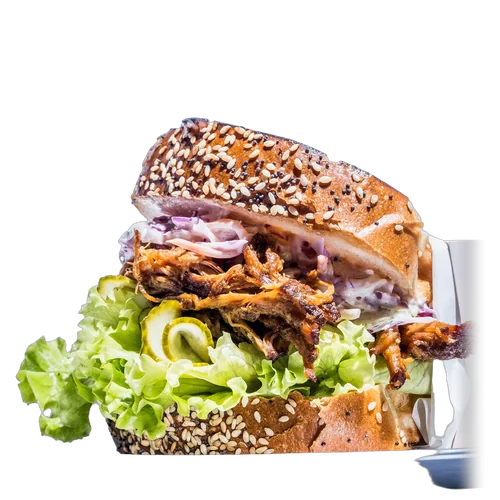
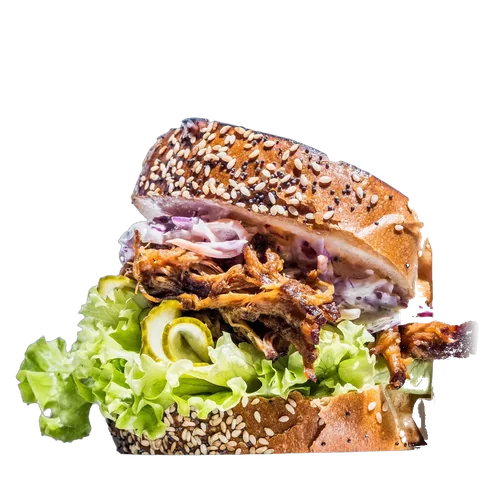
Mobile hero, gallery captions, About copy, article photos, image cache-busting
- Phone hero: bigger title and buttons, block sits higher on tall phones
- Gallery: captions removed
- About: plain factual copy, opening hours instead of the dish count
- Articles: free thematic photos from Wikimedia Commons (CC0 / public domain, credits in README)
- Pork brioche: card and plate edge removed; salmon salad: cropped bowl edge softened
- Build adds ?v=<content hash> to every image URL, so changed photos are not served from cache

Changed region(s): [[0.81, 0.69, 0.96, 0.99], [0.78, 0.45, 0.96, 0.66], [0.81, 0.39, 0.84, 0.45]]

diff --git a/index.html b/index.html
@@ -282,12 +282,12 @@
       <div class="about-text" data-reveal="left">
         <span class="kicker" data-en="About Kiwi's">За Kiwi's</span>
         <h2 data-en="Food that<br><em>fuels you.</em>">Храна, която те<br><em>зарежда.</em></h2>
-        <p data-en="We bake protein brioche, cook bowls with basmati rice and make our desserts in-house — fresh, every day, at 14 Nikola Karev St. in Plovdiv.">Печем протеинов бриош, готвим порции с басмати ориз и правим десертите си на място — прясно, всеки ден, на ул. „Никола Карев“ 14 в Пловдив.</p>
-        <p data-en="Every dish on the menu shows its calories, protein, carbs and fat. No guessing.">До всяко ястие в менюто пише колко калории, протеин, въглехидрати и мазнини има. Без догадки.</p>
+        <p data-en="Kiwi's is a café for healthy food at 14 Nikola Karev St. in Plovdiv: brioche sandwiches, bowls with basmati rice, salads, protein desserts, Cloud Foam drinks and coffee.">Kiwi's е място за здравословна храна и кафе на ул. „Никола Карев“ 14 в Пловдив: сандвичи в протеинов бриош, порции с басмати ориз, салати, протеинови десерти, Cloud Foam напитки и кафе.</p>
+        <p data-en="The menu lists calories, protein, carbs and fat for every dish. You can eat in the room or in the garden, take it with you, or order on Glovo.">В менюто до всяко ястие са дадени калории, протеин, въглехидрати и мазнини. Можеш да хапнеш в залата или в градината, да вземеш за из път или да поръчаш през Glovo.</p>
         <div class="about-stats">
           <div><b data-count="49">49</b><span data-en="Google reviews">отзива в Google</span></div>
           <div><b>5,0</b><span data-en="average rating">средна оценка</span></div>
-          <div><b data-count="27">27</b><span data-en="dishes with macros">ястия с макроси</span></div>
+          <div><b data-en="Mon–Sat">Пон–Съб</b><span>09:00 – 21:30</span></div>
         </div>
       </div>
       <div class="about-img" data-reveal="right">
@@ -463,7 +463,7 @@
       <div class="label-copy" data-reveal="left">
         <span class="kicker" data-en="Know what you eat">Знаеш какво ядеш</span>
         <h2 data-en="Every dish comes<br>with its numbers.">Всяко ястие идва<br>със своите числа.</h2>
-        <p data-en="Training, counting calories or simply curious — the menu lists approximate calories, protein, carbs and fat for each of our 27 dishes, calculated from our recipes.">Тренираш, броиш калории или просто ти е интересно — в менюто до всяко от 27-те ни ястия има приблизителни калории, протеин, въглехидрати и мазнини, изчислени по рецептите ни.</p>
+        <p data-en="The menu lists approximate calories, protein, carbs and fat for every dish, calculated from our recipes.">В менюто до всяко ястие има приблизителни калории, протеин, въглехидрати и мазнини, изчислени по рецептите ни.</p>
         <a href="menu.html" class="btn btn--dark" data-en="Open the menu">Отвори менюто</a>
       </div>
       <div class="nlabel" data-reveal="right" aria-label="Хранителни стойности: Пилешка порция">
@@ -750,15 +750,15 @@
         <div data-reveal="left"><span class="kicker" data-en="Our nest">Нашето гнездо</span><h2 data-en="Stay for a coffee.<br>Or lunch in the garden.">Остани за кафе.<br>Или за обяд в градината.</h2></div>
       </div>
       <div class="gallery" id="gallery">
-          <button class="g g-a" data-reveal="up" data-full="images/nest-terrace-1600.webp" aria-label="Терасата в градината"><picture><source type="image/webp" srcset="images/nest-terrace-600.webp 600w, images/nest-terrace-1000.webp 1000w, images/nest-terrace-1600.webp 1600w" sizes="(min-width: 960px) 420px, 50vw"><img src="images/nest-terrace.jpg" width="1000" height="750" alt="Терасата в градината" loading="lazy" decoding="async"></picture><span class="g-cap" data-en="The garden terrace">Терасата в градината</span></button>
-          <button class="g g-b" data-reveal="up" data-full="images/hero-2000.webp" aria-label="Барът"><picture><source type="image/webp" srcset="images/hero-800.webp 800w, images/hero-1400.webp 1400w, images/hero-2000.webp 2000w" sizes="(min-width: 960px) 420px, 50vw"><img src="images/hero.jpg" width="1600" height="1200" alt="Барът" loading="lazy" decoding="async"></picture><span class="g-cap" data-en="The bar">Барът</span></button>
-          <button class="g g-c" data-reveal="up" data-full="images/nest-interior-1600.webp" aria-label="Залата"><picture><source type="image/webp" srcset="images/nest-interior-600.webp 600w, images/nest-interior-1000.webp 1000w, images/nest-interior-1600.webp 1600w" sizes="(min-width: 960px) 420px, 50vw"><img src="images/nest-interior.jpg" width="1000" height="1333" alt="Залата" loading="lazy" decoding="async"></picture><span class="g-cap" data-en="Inside">Залата</span></button>
-          <button class="g g-d" data-reveal="up" data-full="images/nest-portion-1600.webp" aria-label="Пилешка порция"><picture><source type="image/webp" srcset="images/nest-portion-600.webp 600w, images/nest-portion-1000.webp 1000w, images/nest-portion-1600.webp 1600w" sizes="(min-width: 960px) 420px, 50vw"><img src="images/nest-portion.jpg" width="1000" height="1333" alt="Пилешка порция" loading="lazy" decoding="async"></picture><span class="g-cap" data-en="Chicken bowl">Пилешка порция</span></button>
-          <button class="g g-e" data-reveal="up" data-full="images/nest-exterior-1600.webp" aria-label="Входът"><picture><source type="image/webp" srcset="images/nest-exterior-600.webp 600w, images/nest-exterior-1000.webp 1000w, images/nest-exterior-1600.webp 1600w" sizes="(min-width: 960px) 420px, 50vw"><img src="images/nest-exterior.jpg" width="1000" height="750" alt="Входът" loading="lazy" decoding="async"></picture><span class="g-cap" data-en="The entrance">Входът</span></button>
-          <button class="g g-f" data-reveal="up" data-full="images/nest-frappe-1600.webp" aria-label="Кафе на терасата"><picture><source type="image/webp" srcset="images/nest-frappe-600.webp 600w, images/nest-frappe-1000.webp 1000w, images/nest-frappe-1600.webp 1600w" sizes="(min-width: 960px) 420px, 50vw"><img src="images/nest-frappe.jpg" width="1000" height="1333" alt="Кафе на терасата" loading="lazy" decoding="async"></picture><span class="g-cap" data-en="Coffee on the terrace">Кафе на терасата</span></button>
-          <button class="g g-g" data-reveal="up" data-full="images/nest-door-1600.webp" aria-label="Порция за из път"><picture><source type="image/webp" srcset="images/nest-door-600.webp 600w, images/nest-door-1000.webp 1000w, images/nest-door-1600.webp 1600w" sizes="(min-width: 960px) 420px, 50vw"><img src="images/nest-door.jpg" width="1000" height="1333" alt="Порция за из път" loading="lazy" decoding="async"></picture><span class="g-cap" data-en="A bowl to go">Порция за из път</span></button>
-          <button class="g g-h" data-reveal="up" data-full="images/nest-dessert-1600.webp" aria-label="Протеинов десерт"><picture><source type="image/webp" srcset="images/nest-dessert-600.webp 600w, images/nest-dessert-1000.webp 1000w, images/nest-dessert-1600.webp 1600w" sizes="(min-width: 960px) 420px, 50vw"><img src="images/nest-dessert.jpg" width="1000" height="1333" alt="Протеинов десерт" loading="lazy" decoding="async"></picture><span class="g-cap" data-en="Protein dessert">Протеинов десерт</span></button>
-          <button class="g g-i" data-reveal="up" data-full="images/nest-sandwich-1600.webp" aria-label="Бриош сандвич"><picture><source type="image/webp" srcset="images/nest-sandwich-600.webp 600w, images/nest-sandwich-1000.webp 1000w, images/nest-sandwich-1600.webp 1600w" sizes="(min-width: 960px) 420px, 50vw"><img src="images/nest-sandwich.jpg" width="1000" height="1333" alt="Бриош сандвич" loading="lazy" decoding="async"></picture><span class="g-cap" data-en="Brioche sandwich">Бриош сандвич</span></button>
+          <button class="g g-a" data-reveal="up" data-full="images/nest-terrace-1600.webp" aria-label="Терасата в градината"><picture><source type="image/webp" srcset="images/nest-terrace-600.webp 600w, images/nest-terrace-1000.webp 1000w, images/nest-terrace-1600.webp 1600w" sizes="(min-width: 960px) 420px, 50vw"><img src="images/nest-terrace.jpg" width="1000" height="750" alt="Терасата в градината" loading="lazy" decoding="async"></picture></button>
+          <button class="g g-b" data-reveal="up" data-full="images/hero-2000.webp" aria-label="Барът"><picture><source type="image/webp" srcset="images/hero-800.webp 800w, images/hero-1400.webp 1400w, images/hero-2000.webp 2000w" sizes="(min-width: 960px) 420px, 50vw"><img src="images/hero.jpg" width="1600" height="1200" alt="Барът" loading="lazy" decoding="async"></picture></button>
+          <button class="g g-c" data-reveal="up" data-full="images/nest-interior-1600.webp" aria-label="Залата"><picture><source type="image/webp" srcset="images/nest-interior-600.webp 600w, images/nest-interior-1000.webp 1000w, images/nest-interior-1600.webp 1600w" sizes="(min-width: 960px) 420px, 50vw"><img src="images/nest-interior.jpg" width="1000" height="1333" alt="Залата" loading="lazy" decoding="async"></picture></button>
+          <button class="g g-d" data-reveal="up" data-full="images/nest-portion-1600.webp" aria-label="Пилешка порция"><picture><source type="image/webp" srcset="images/nest-portion-600.webp 600w, images/nest-portion-1000.webp 1000w, images/nest-portion-1600.webp 1600w" sizes="(min-width: 960px) 420px, 50vw"><img src="images/nest-portion.jpg" width="1000" height="1333" alt="Пилешка порция" loading="lazy" decoding="async"></picture></button>
+          <button class="g g-e" data-reveal="up" data-full="images/nest-exterior-1600.webp" aria-label="Входът"><picture><source type="image/webp" srcset="images/nest-exterior-600.webp 600w, images/nest-exterior-1000.webp 1000w, images/nest-exterior-1600.webp 1600w" sizes="(min-width: 960px) 420px, 50vw"><img src="images/nest-exterior.jpg" width="1000" height="750" alt="Входът" loading="lazy" decoding="async"></picture></button>
+          <button class="g g-f" data-reveal="up" data-full="images/nest-frappe-1600.webp" aria-label="Кафе на терасата"><picture><source type="image/webp" srcset="images/nest-frappe-600.webp 600w, images/nest-frappe-1000.webp 1000w, images/nest-frappe-1600.webp 1600w" sizes="(min-width: 960px) 420px, 50vw"><img src="images/nest-frappe.jpg" width="1000" height="1333" alt="Кафе на терасата" loading="lazy" decoding="async"></picture></button>
+          <button class="g g-g" data-reveal="up" data-full="images/nest-door-1600.webp" aria-label="Порция за из път"><picture><source type="image/webp" srcset="images/nest-door-600.webp 600w, images/nest-door-1000.webp 1000w, images/nest-door-1600.webp 1600w" sizes="(min-width: 960px) 420px, 50vw"><img src="images/nest-door.jpg" width="1000" height="1333" alt="Порция за из път" loading="lazy" decoding="async"></picture></button>
+          <button class="g g-h" data-reveal="up" data-full="images/nest-dessert-1600.webp" aria-label="Протеинов десерт"><picture><source type="image/webp" srcset="images/nest-dessert-600.webp 600w, images/nest-dessert-1000.webp 1000w, images/nest-dessert-1600.webp 1600w" sizes="(min-width: 960px) 420px, 50vw"><img src="images/nest-dessert.jpg" width="1000" height="1333" alt="Протеинов десерт" loading="lazy" decoding="async"></picture></button>
+          <button class="g g-i" data-reveal="up" data-full="images/nest-sandwich-1600.webp" aria-label="Бриош сандвич"><picture><source type="image/webp" srcset="images/nest-sandwich-600.webp 600w, images/nest-sandwich-1000.webp 1000w, images/nest-sandwich-1600.webp 1600w" sizes="(min-width: 960px) 420px, 50vw"><img src="images/nest-sandwich.jpg" width="1000" height="1333" alt="Бриош сандвич" loading="lazy" decoding="async"></picture></button>
       </div>
     </div>
   </section>
@@ -796,9 +796,9 @@
         <a href="blog/" class="sec-link" data-reveal="right" data-en="All articles &rarr;">Всички статии &rarr;</a>
       </div>
       <div class="art-grid">
-        <a class="art-card" href="blog/kolko-protein-na-den.html" data-reveal="up"><div class="art-img"><picture><source type="image/webp" srcset="images/nest-portion-600.webp 600w, images/nest-portion-1000.webp 1000w, images/nest-portion-1600.webp 1600w" sizes="(min-width: 960px) 360px, 90vw"><img src="images/nest-portion.jpg" width="1000" height="1333" alt="" loading="lazy" decoding="async"></picture></div><span class="art-meta">6 <span data-en="min read">мин четене</span></span><h3 data-en="How much protein do you need a day?">Колко протеин ти трябва на ден?</h3></a>
-        <a class="art-card" href="blog/makrosi-za-nachinaeshti.html" data-reveal="up"><div class="art-img"><picture><source type="image/webp" srcset="images/nest-dessert-600.webp 600w, images/nest-dessert-1000.webp 1000w, images/nest-dessert-1600.webp 1600w" sizes="(min-width: 960px) 360px, 90vw"><img src="images/nest-dessert.jpg" width="1000" height="1333" alt="" loading="lazy" decoding="async"></picture></div><span class="art-meta">5 <span data-en="min read">мин четене</span></span><h3 data-en="Macros for beginners">Макроси за начинаещи</h3></a>
-        <a class="art-card" href="blog/zdravoslovno-hranene-navan.html" data-reveal="up"><div class="art-img"><picture><source type="image/webp" srcset="images/nest-terrace-600.webp 600w, images/nest-terrace-1000.webp 1000w, images/nest-terrace-1600.webp 1600w" sizes="(min-width: 960px) 360px, 90vw"><img src="images/nest-terrace.jpg" width="1000" height="750" alt="" loading="lazy" decoding="async"></picture></div><span class="art-meta">5 <span data-en="min read">мин четене</span></span><h3 data-en="Eating well when you eat out">Как да се храниш здравословно, когато ядеш навън</h3></a>
+        <a class="art-card" href="blog/kolko-protein-na-den.html" data-reveal="up"><div class="art-img"><picture><source type="image/webp" srcset="images/article-protein-600.webp 600w, images/article-protein-1000.webp 1000w, images/article-protein-1600.webp 1600w" sizes="(min-width: 960px) 360px, 90vw"><img src="images/article-protein.jpg" width="1600" height="1200" alt="" loading="lazy" decoding="async"></picture></div><span class="art-meta">6 <span data-en="min read">мин четене</span></span><h3 data-en="How much protein do you need a day?">Колко протеин ти трябва на ден?</h3></a>
+        <a class="art-card" href="blog/makrosi-za-nachinaeshti.html" data-reveal="up"><div class="art-img"><picture><source type="image/webp" srcset="images/article-macros-600.webp 600w, images/article-macros-1000.webp 1000w, images/article-macros-1600.webp 1600w" sizes="(min-width: 960px) 360px, 90vw"><img src="images/article-macros.jpg" width="1600" height="1200" alt="" loading="lazy" decoding="async"></picture></div><span class="art-meta">5 <span data-en="min read">мин четене</span></span><h3 data-en="Macros for beginners">Макроси за начинаещи</h3></a>
+        <a class="art-card" href="blog/zdravoslovno-hranene-navan.html" data-reveal="up"><div class="art-img"><picture><source type="image/webp" srcset="images/article-eatout-600.webp 600w, images/article-eatout-1000.webp 1000w, images/article-eatout-1600.webp 1600w" sizes="(min-width: 960px) 360px, 90vw"><img src="images/article-eatout.jpg" width="1600" height="1200" alt="" loading="lazy" decoding="async"></picture></div><span class="art-meta">5 <span data-en="min read">мин четене</span></span><h3 data-en="Eating well when you eat out">Как да се храниш здравословно, когато ядеш навън</h3></a>
       </div>
     </div>
   </section>

diff --git a/blog/index.html b/blog/index.html
@@ -95,19 +95,19 @@
       </div>
       <div class="container art-grid blog-list">
         <a class="art-card" href="/blog/kolko-protein-na-den.html">
-          <div class="art-img"><picture><source type="image/webp" srcset="/images/nest-portion-600.webp 600w, /images/nest-portion-1000.webp 1000w, /images/nest-portion-1600.webp 1600w" sizes="(min-width: 900px) 360px, 90vw"><img src="/images/nest-portion.jpg" width="1000" height="1333" alt="" loading="lazy" decoding="async"></picture></div>
+          <div class="art-img"><picture><source type="image/webp" srcset="/images/article-protein-600.webp 600w, /images/article-protein-1000.webp 1000w, /images/article-protein-1600.webp 1600w" sizes="(min-width: 900px) 360px, 90vw"><img src="/images/article-protein.jpg" width="1600" height="1200" alt="" loading="lazy" decoding="async"></picture></div>
           <span class="art-meta">6 мин четене</span>
           <h2>Колко протеин ти трябва на ден?</h2>
           <p>Колко протеин на ден е нужен на възрастен, на човек, който тренира, и след 65 години — с препоръките на EFSA и ISSN и примери с реални ястия.</p>
         </a>
         <a class="art-card" href="/blog/makrosi-za-nachinaeshti.html">
-          <div class="art-img"><picture><source type="image/webp" srcset="/images/nest-dessert-600.webp 600w, /images/nest-dessert-1000.webp 1000w, /images/nest-dessert-1600.webp 1600w" sizes="(min-width: 900px) 360px, 90vw"><img src="/images/nest-dessert.jpg" width="1000" height="1333" alt="" loading="lazy" decoding="async"></picture></div>
+          <div class="art-img"><picture><source type="image/webp" srcset="/images/article-macros-600.webp 600w, /images/article-macros-1000.webp 1000w, /images/article-macros-1600.webp 1600w" sizes="(min-width: 900px) 360px, 90vw"><img src="/images/article-macros.jpg" width="1600" height="1200" alt="" loading="lazy" decoding="async"></picture></div>
           <span class="art-meta">5 мин четене</span>
           <h2>Макроси за начинаещи: калории, протеин, въглехидрати, мазнини</h2>
           <p>Какво са макросите, колко калории има в грам протеин, въглехидрати и мазнини, и как да четеш хранителните стойности в менюто.</p>
         </a>
         <a class="art-card" href="/blog/zdravoslovno-hranene-navan.html">
-          <div class="art-img"><picture><source type="image/webp" srcset="/images/nest-terrace-600.webp 600w, /images/nest-terrace-1000.webp 1000w, /images/nest-terrace-1600.webp 1600w" sizes="(min-width: 900px) 360px, 90vw"><img src="/images/nest-terrace.jpg" width="1000" height="750" alt="" loading="lazy" decoding="async"></picture></div>
+          <div class="art-img"><picture><source type="image/webp" srcset="/images/article-eatout-600.webp 600w, /images/article-eatout-1000.webp 1000w, /images/article-eatout-1600.webp 1600w" sizes="(min-width: 900px) 360px, 90vw"><img src="/images/article-eatout.jpg" width="1600" height="1200" alt="" loading="lazy" decoding="async"></picture></div>
           <span class="art-meta">5 мин четене</span>
           <h2>Как да се храниш здравословно, когато ядеш навън</h2>
           <p>Практични съвети за здравословно хранене в заведение: как да изградиш чинията, какво да внимаваш със сосовете, напитките и солта.</p>

diff --git a/blog/makrosi-za-nachinaeshti.html b/blog/makrosi-za-nachinaeshti.html
@@ -15,7 +15,7 @@
   <meta property="og:url" content="https://kiwis.bg/blog/makrosi-za-nachinaeshti.html">
   <meta property="og:title" content="Макроси за начинаещи: калории, протеин, въглехидрати, мазнини | Kiwi&#x27;s Пловдив">
   <meta property="og:description" content="Какво са макросите, колко калории има в грам протеин, въглехидрати и мазнини, и как да четеш хранителните стойности в менюто.">
-  <meta property="og:image" content="https://kiwis.bg/images/nest-dessert.jpg">
+  <meta property="og:image" content="https://kiwis.bg/images/article-macros.jpg">
   <meta name="twitter:card" content="summary_large_image">
   <link rel="icon" href="/favicon.ico" sizes="48x48">
   <link rel="icon" type="image/png" sizes="32x32" href="/favicon-32.png">
@@ -31,7 +31,7 @@
       "@type": "Article",
       "headline": "Макроси за начинаещи: калории, протеин, въглехидрати, мазнини",
       "description": "Какво са макросите, колко калории има в грам протеин, въглехидрати и мазнини, и как да четеш хранителните стойности в менюто.",
-      "image": "https://kiwis.bg/images/nest-dessert.jpg",
+      "image": "https://kiwis.bg/images/article-macros.jpg",
       "datePublished": "2026-11-11",
       "dateModified": "2026-11-11",
       "inLanguage": "bg",
@@ -119,7 +119,7 @@
         <h1>Макроси за начинаещи: калории, протеин, въглехидрати, мазнини</h1>
         <p class="post-meta">5 мин четене · Kiwi's · 11.11.2026</p>
       </div>
-      <div class="container post-hero"><picture><source type="image/webp" srcset="/images/nest-dessert-600.webp 600w, /images/nest-dessert-1000.webp 1000w, /images/nest-dessert-1600.webp 1600w" sizes="(min-width: 900px) 860px, 100vw"><img src="/images/nest-dessert.jpg" width="1000" height="1333" alt="" decoding="async"></picture></div>
+      <div class="container post-hero"><picture><source type="image/webp" srcset="/images/article-macros-600.webp 600w, /images/article-macros-1000.webp 1000w, /images/article-macros-1600.webp 1600w" sizes="(min-width: 900px) 860px, 100vw"><img src="/images/article-macros.jpg" width="1600" height="1200" alt="" decoding="async"></picture></div>
       <div class="container post-body">
 
 <p class="lead">„Макроси“ са трите големи групи хранителни вещества, от които идва енергията в храната: <strong>протеини, въглехидрати и мазнини</strong>. Ако ги разбираш, разбираш и етикета, и менюто.</p>

diff --git a/blog/zdravoslovno-hranene-navan.html b/blog/zdravoslovno-hranene-navan.html
@@ -15,7 +15,7 @@
   <meta property="og:url" content="https://kiwis.bg/blog/zdravoslovno-hranene-navan.html">
   <meta property="og:title" content="Как да се храниш здравословно, когато ядеш навън | Kiwi&#x27;s Пловдив">
   <meta property="og:description" content="Практични съвети за здравословно хранене в заведение: как да изградиш чинията, какво да внимаваш със сосовете, напитките и солта.">
-  <meta property="og:image" content="https://kiwis.bg/images/nest-terrace.jpg">
+  <meta property="og:image" content="https://kiwis.bg/images/article-eatout.jpg">
   <meta name="twitter:card" content="summary_large_image">
   <link rel="icon" href="/favicon.ico" sizes="48x48">
   <link rel="icon" type="image/png" sizes="32x32" href="/favicon-32.png">
@@ -31,7 +31,7 @@
       "@type": "Article",
       "headline": "Как да се храниш здравословно, когато ядеш навън",
       "description": "Практични съвети за здравословно хранене в заведение: как да изградиш чинията, какво да внимаваш със сосовете, напитките и солта.",
-      "image": "https://kiwis.bg/images/nest-terrace.jpg",
+      "image": "https://kiwis.bg/images/article-eatout.jpg",
       "datePublished": "2026-11-11",
       "dateModified": "2026-11-11",
       "inLanguage": "bg",
@@ -119,7 +119,7 @@
         <h1>Как да се храниш здравословно, когато ядеш навън</h1>
         <p class="post-meta">5 мин четене · Kiwi's · 11.11.2026</p>
       </div>
-      <div class="container post-hero"><picture><source type="image/webp" srcset="/images/nest-terrace-600.webp 600w, /images/nest-terrace-1000.webp 1000w, /images/nest-terrace-1600.webp 1600w" sizes="(min-width: 900px) 860px, 100vw"><img src="/images/nest-terrace.jpg" width="1000" height="750" alt="" decoding="async"></picture></div>
+      <div class="container post-hero"><picture><source type="image/webp" srcset="/images/article-eatout-600.webp 600w, /images/article-eatout-1000.webp 1000w, /images/article-eatout-1600.webp 1600w" sizes="(min-width: 900px) 860px, 100vw"><img src="/images/article-eatout.jpg" width="1600" height="1200" alt="" decoding="async"></picture></div>
       <div class="container post-body">
 
 <p class="lead">Храненето навън не трябва да разваля режима. С няколко прости правила можеш да ядеш вкусно, да се заситиш и пак да си в целите си.</p>

diff --git a/blog/kolko-protein-na-den.html b/blog/kolko-protein-na-den.html
@@ -15,7 +15,7 @@
   <meta property="og:url" content="https://kiwis.bg/blog/kolko-protein-na-den.html">
   <meta property="og:title" content="Колко протеин ти трябва на ден? | Kiwi&#x27;s Пловдив">
   <meta property="og:description" content="Колко протеин на ден е нужен на възрастен, на човек, който тренира, и след 65 години — с препоръките на EFSA и ISSN и примери с реални ястия.">
-  <meta property="og:image" content="https://kiwis.bg/images/nest-portion.jpg">
+  <meta property="og:image" content="https://kiwis.bg/images/article-protein.jpg">
   <meta name="twitter:card" content="summary_large_image">
   <link rel="icon" href="/favicon.ico" sizes="48x48">
   <link rel="icon" type="image/png" sizes="32x32" href="/favicon-32.png">
@@ -31,7 +31,7 @@
       "@type": "Article",
       "headline": "Колко протеин ти трябва на ден?",
       "description": "Колко протеин на ден е нужен на възрастен, на човек, който тренира, и след 65 години — с препоръките на EFSA и ISSN и примери с реални ястия.",
-      "image": "https://kiwis.bg/images/nest-portion.jpg",
+      "image": "https://kiwis.bg/images/article-protein.jpg",
       "datePublished": "2026-11-11",
       "dateModified": "2026-11-11",
       "inLanguage": "bg",
@@ -119,7 +119,7 @@
         <h1>Колко протеин ти трябва на ден?</h1>
         <p class="post-meta">6 мин четене · Kiwi's · 11.11.2026</p>
       </div>
-      <div class="container post-hero"><picture><source type="image/webp" srcset="/images/nest-portion-600.webp 600w, /images/nest-portion-1000.webp 1000w, /images/nest-portion-1600.webp 1600w" sizes="(min-width: 900px) 860px, 100vw"><img src="/images/nest-portion.jpg" width="1000" height="1333" alt="" decoding="async"></picture></div>
+      <div class="container post-hero"><picture><source type="image/webp" srcset="/images/article-protein-600.webp 600w, /images/article-protein-1000.webp 1000w, /images/article-protein-1600.webp 1600w" sizes="(min-width: 900px) 860px, 100vw"><img src="/images/article-protein.jpg" width="1600" height="1200" alt="" decoding="async"></picture></div>
       <div class="container post-body">
 
 <p class="lead">Протеинът е навсякъде — в рекламите, във фитнеса, в менютата. Но колко всъщност ти трябва? Отговорът зависи от теглото ти, от това колко се движиш и от възрастта ти.</p>

diff --git a/css/style.css b/css/style.css
@@ -459,7 +459,7 @@ button { border: 0; background: none; cursor: pointer; font: inherit; color: inh
 .ct img { top: 7%; left: 50%; width: 80%; height: 60%; object-fit: contain; object-position: 50% 100%; transform: translateX(-50%); }
 .ct:hover img { transform: translateX(-50%) translateY(-6px) scale(1.04); }
 @media (max-width: 959px) { .ct { min-height: 15.5rem; } .ct img { top: 6%; height: 50%; width: 84%; } }
-.art-img img { object-position: 50% 68%; }
+.art-img img { object-position: 50% 50%; }
 
 /* ==========================================================
    v3 — PRAISED: one flat yellow (no gradient that shifts while scrolling),
@@ -605,3 +605,18 @@ button { border: 0; background: none; cursor: pointer; font: inherit; color: inh
 @media (max-width: 959px) { .praised .pv-quote { height: 5.2em !important; } }
 /* desktop: price + weight left, the two buttons stay side by side */
 @media (min-width: 960px) { .praised .pv-ctas { flex-wrap: nowrap; } .praised .pv-ctas .btn { padding: 12px 20px; font-size: .92rem; } }
+.about-stats b { white-space: nowrap; font-size: clamp(1.2rem, 5.4vw, 1.8rem); }
+
+/* HERO on phones v2: title and buttons scale with the screen and sit higher on tall phones */
+@media (max-width: 768px) {
+  .hero-content { padding-bottom: clamp(28px, calc(100svh - 640px), 150px); }
+  .hero-content { padding-bottom: max(clamp(28px, 18svh - 90px, 150px), env(safe-area-inset-bottom)); }
+  .hero-h1 { font-size: clamp(2.6rem, min(13.4vw, 7.4svh), 4.4rem); margin-bottom: clamp(14px, 2.4svh, 26px); }
+  .hero-btns { margin-top: clamp(14px, 2.6svh, 28px); gap: clamp(8px, 1.4svh, 14px); }
+  .hero-btns .btn { padding: clamp(13px, 2svh, 18px) 16px; font-size: clamp(.95rem, 4.4vw, 1.1rem); }
+  .hero-rating { font-size: clamp(.85rem, 3.9vw, 1rem); }
+}
+@media (max-width: 768px) {
+  .hero-content { padding-bottom: max(clamp(32px, 30svh - 140px, 170px), env(safe-area-inset-bottom)); }
+  .hero-h1 { font-size: clamp(2.5rem, min(12.2vw, 7svh), 4.2rem); }
+}

diff --git a/css/blog.css b/css/blog.css
@@ -38,11 +38,11 @@
 /* ---- one centred column: heading, photo and text share the same width ---- */
 .post-head, .post-hero, .post-body { max-width: 48.75rem; }
 .post-hero { margin-top: 26px; }
-.post-hero img { width: 100%; height: auto; max-height: none; aspect-ratio: 16 / 10; object-fit: cover; object-position: 50% 62%; border-radius: 22px; box-shadow: 0 30px 60px -36px rgba(26,45,30,.45); }
+.post-hero img { width: 100%; height: auto; max-height: none; aspect-ratio: 16 / 10; object-fit: cover; object-position: 50% 50%; border-radius: 22px; box-shadow: 0 30px 60px -36px rgba(26,45,30,.45); }
 .post-body { margin-top: 32px; }
 .blog-list { max-width: 72.5rem; }
 .blog-list .art-img { aspect-ratio: 4 / 3; }
 .blog-list .art-card { align-content: start; }
 /* list page: heading lines up with the cards */
 .post:has(.blog-list) .post-head { max-width: 72.5rem; }
-.art-img img { object-position: 50% 68%; }
+.art-img img { object-position: 50% 50%; }

diff --git a/js/main.js b/js/main.js
@@ -155,7 +155,8 @@ document.addEventListener('DOMContentLoaded', () => {
     const open = k => {
       n = (k + items.length) % items.length;
       img.src = items[n].dataset.full;
-      img.alt = cap.textContent = items[n].querySelector('.g-cap').textContent;
+      img.alt = items[n].getAttribute('aria-label') || '';
+      cap.textContent = '';
       lb.hidden = false; document.body.style.overflow = 'hidden';
     };
     const close = () => { lb.hidden = true; document.body.style.overflow = ''; if (last) last.focus(); };

diff --git a/menu.html b/menu.html
@@ -31,7 +31,7 @@
   <link rel="stylesheet" href="css/style.css">
   <link rel="stylesheet" href="css/pv.css">
   <link rel="stylesheet" href="css/menu.css">
-                                  <script type="application/ld+json">
+                                      <script type="application/ld+json">
 {
   "@context": "https://schema.org",
   "@type": "Menu",

diff --git a/scripts/gen/build_index.py b/scripts/gen/build_index.py
@@ -98,7 +98,7 @@ NEST = [
 gal = ""
 for i, (img, cap, cen, cls, w, h) in enumerate(NEST):
     full = "images/hero-2000.webp" if img == "hero" else f"images/{img}-1600.webp"
-    gal += f'          <button class="g {cls}" data-reveal="up" data-full="{full}" aria-label="{cap}">{photo(img, "(min-width: 960px) 420px, 50vw", cap, w, h)}<span class="g-cap" data-en="{cen}">{cap}</span></button>\n'
+    gal += f'          <button class="g {cls}" data-reveal="up" data-full="{full}" aria-label="{cap}">{photo(img, "(min-width: 960px) 420px, 50vw", cap, w, h)}</button>\n'
 
 FAQ = [
     ("Къде се намира Kiwi's?", "Where is Kiwi's?", "На ул. „Никола Карев“ 14 в Пловдив. Имаме зала и тераса в градината.", "At 14 Nikola Karev St., Plovdiv, with an indoor room and a garden terrace."),
@@ -114,11 +114,11 @@ faq_ld = json.dumps({"@context": "https://schema.org", "@type": "FAQPage", "main
     {"@type": "Question", "name": q, "acceptedAnswer": {"@type": "Answer", "text": a}} for q, _, a, _ in FAQ]}, ensure_ascii=False, indent=2)
 
 ARTS = [
-    ("blog/kolko-protein-na-den.html", "Колко протеин ти трябва на ден?", "How much protein do you need a day?", "nest-portion", 1333, "6"),
-    ("blog/makrosi-za-nachinaeshti.html", "Макроси за начинаещи", "Macros for beginners", "nest-dessert", 1333, "5"),
-    ("blog/zdravoslovno-hranene-navan.html", "Как да се храниш здравословно, когато ядеш навън", "Eating well when you eat out", "nest-terrace", 750, "5"),
+    ("blog/kolko-protein-na-den.html", "Колко протеин ти трябва на ден?", "How much protein do you need a day?", "article-protein", 1200, "6"),
+    ("blog/makrosi-za-nachinaeshti.html", "Макроси за начинаещи", "Macros for beginners", "article-macros", 1200, "5"),
+    ("blog/zdravoslovno-hranene-navan.html", "Как да се храниш здравословно, когато ядеш навън", "Eating well when you eat out", "article-eatout", 1200, "5"),
 ]
-arts = "".join(f'''        <a class="art-card" href="{h}" data-reveal="up"><div class="art-img">{photo(img, "(min-width: 960px) 360px, 90vw", "", 1000, ih)}</div><span class="art-meta">{m} <span data-en="min read">мин четене</span></span><h3 data-en="{te}">{t}</h3></a>
+arts = "".join(f'''        <a class="art-card" href="{h}" data-reveal="up"><div class="art-img">{photo(img, "(min-width: 960px) 360px, 90vw", "", 1600, ih)}</div><span class="art-meta">{m} <span data-en="min read">мин четене</span></span><h3 data-en="{te}">{t}</h3></a>
 ''' for h, t, te, img, ih, m in ARTS)
 
 chicken = ITEMS["Пилешка порция"]
@@ -166,12 +166,12 @@ body = f'''<body>
       <div class="about-text" data-reveal="left">
         <span class="kicker" data-en="About Kiwi's">За Kiwi's</span>
         <h2 data-en="Food that<br><em>fuels you.</em>">Храна, която те<br><em>зарежда.</em></h2>
-        <p data-en="We bake protein brioche, cook bowls with basmati rice and make our desserts in-house — fresh, every day, at 14 Nikola Karev St. in Plovdiv.">Печем протеинов бриош, готвим порции с басмати ориз и правим десертите си на място — прясно, всеки ден, на ул. „Никола Карев“ 14 в Пловдив.</p>
-        <p data-en="Every dish on the menu shows its calories, protein, carbs and fat. No guessing.">До всяко ястие в менюто пише колко калории, протеин, въглехидрати и мазнини има. Без догадки.</p>
+        <p data-en="Kiwi's is a café for healthy food at 14 Nikola Karev St. in Plovdiv: brioche sandwiches, bowls with basmati rice, salads, protein desserts, Cloud Foam drinks and coffee.">Kiwi's е място за здравословна храна и кафе на ул. „Никола Карев“ 14 в Пловдив: сандвичи в протеинов бриош, порции с басмати ориз, салати, протеинови десерти, Cloud Foam напитки и кафе.</p>
+        <p data-en="The menu lists calories, protein, carbs and fat for every dish. You can eat in the room or in the garden, take it with you, or order on Glovo.">В менюто до всяко ястие са дадени калории, протеин, въглехидрати и мазнини. Можеш да хапнеш в залата или в градината, да вземеш за из път или да поръчаш през Glovo.</p>
         <div class="about-stats">
           <div><b data-count="49">49</b><span data-en="Google reviews">отзива в Google</span></div>
           <div><b>5,0</b><span data-en="average rating">средна оценка</span></div>
-          <div><b data-count="27">27</b><span data-en="dishes with macros">ястия с макроси</span></div>
+          <div><b data-en="Mon–Sat">Пон–Съб</b><span>09:00 – 21:30</span></div>
         </div>
       </div>
       <div class="about-img" data-reveal="right">
@@ -216,7 +216,7 @@ body = f'''<body>
       <div class="label-copy" data-reveal="left">
         <span class="kicker" data-en="Know what you eat">Знаеш какво ядеш</span>
         <h2 data-en="Every dish comes<br>with its numbers.">Всяко ястие идва<br>със своите числа.</h2>
-        <p data-en="Training, counting calories or simply curious — the menu lists approximate calories, protein, carbs and fat for each of our 27 dishes, calculated from our recipes.">Тренираш, броиш калории или просто ти е интересно — в менюто до всяко от 27-те ни ястия има приблизителни калории, протеин, въглехидрати и мазнини, изчислени по рецептите ни.</p>
+        <p data-en="The menu lists approximate calories, protein, carbs and fat for every dish, calculated from our recipes.">В менюто до всяко ястие има приблизителни калории, протеин, въглехидрати и мазнини, изчислени по рецептите ни.</p>
         <a href="menu.html" class="btn btn--dark" data-en="Open the menu">Отвори менюто</a>
       </div>
       <div class="nlabel" data-reveal="right" aria-label="Хранителни стойности: Пилешка порция">

diff --git a/scripts/gen/build_blog.py b/scripts/gen/build_blog.py
@@ -11,7 +11,7 @@ ARTICLES = [
   "slug": "kolko-protein-na-den",
   "title": "Колко протеин ти трябва на ден?",
   "desc": "Колко протеин на ден е нужен на възрастен, на човек, който тренира, и след 65 години — с препоръките на EFSA и ISSN и примери с реални ястия.",
-  "img": "nest-portion", "w": 1000, "h": 1333, "mins": 6,
+  "img": "article-protein", "w": 1600, "h": 1200, "mins": 6,
   "body": """
 <p class="lead">Протеинът е навсякъде — в рекламите, във фитнеса, в менютата. Но колко всъщност ти трябва? Отговорът зависи от теглото ти, от това колко се движиш и от възрастта ти.</p>
 
@@ -50,7 +50,7 @@ ARTICLES = [
   "slug": "makrosi-za-nachinaeshti",
   "title": "Макроси за начинаещи: калории, протеин, въглехидрати, мазнини",
   "desc": "Какво са макросите, колко калории има в грам протеин, въглехидрати и мазнини, и как да четеш хранителните стойности в менюто.",
-  "img": "nest-dessert", "w": 1000, "h": 1333, "mins": 5,
+  "img": "article-macros", "w": 1600, "h": 1200, "mins": 5,
   "body": """
 <p class="lead">„Макроси“ са трите големи групи хранителни вещества, от които идва енергията в храната: <strong>протеини, въглехидрати и мазнини</strong>. Ако ги разбираш, разбираш и етикета, и менюто.</p>
 
@@ -97,7 +97,7 @@ ARTICLES = [
   "slug": "zdravoslovno-hranene-navan",
   "title": "Как да се храниш здравословно, когато ядеш навън",
   "desc": "Практични съвети за здравословно хранене в заведение: как да изградиш чинията, какво да внимаваш със сосовете, напитките и солта.",
-  "img": "nest-terrace", "w": 1000, "h": 750, "mins": 5,
+  "img": "article-eatout", "w": 1600, "h": 1200, "mins": 5,
   "body": """
 <p class="lead">Храненето навън не трябва да разваля режима. С няколко прости правила можеш да ядеш вкусно, да се заситиш и пак да си в целите си.</p>
 

diff --git a/scripts/gen/normalize.py b/scripts/gen/normalize.py
@@ -17,9 +17,12 @@ def trim_plate(im):
     Keep the plate only around the box (1.7x its width) and fade it out softly at the sides."""
     a = np.array(im.getchannel("A")).astype(float)
     H, W = a.shape
-    rows = [(a[y] > 128).sum() for y in range(int(H * .45), int(H * .66))]
+    ys = list(range(int(H * .45), int(H * .66)))
+    rows = [(a[y] > 128).sum() for y in ys]
+    yb = ys[int(np.argmin(rows))]
     box = max(min(rows), W * .2)                      # narrowest row between sandwich and plate = the box
-    cx = W / 2
+    xs = np.where(a[yb] > 128)[0]
+    cx = (xs[0] + xs[-1]) / 2 if len(xs) else W / 2  # centre of the box, not of the photo
     x = np.abs(np.arange(W) - cx)
     inner, outer = box * .85, box * 1.15
     g = np.clip((outer - x) / (outer - inner), 0, 1); g = g * g * (3 - 2 * g)
@@ -57,6 +60,9 @@ def trim_side_plate(im):
     if not len(cols):
         return im
     x0, x1 = cols[0], cols[-1]
+    card = (a > 0) & ((mx - mn) / np.maximum(mx, 1) < .14) & (mn > 150)
+    card[:, : int(x0 + (x1 - x0) * .7)] = False        # only on the far side of the sandwich
+    a = np.where(card, 0, a)
     pad, ramp = (x1 - x0) * .03, (x1 - x0) * .09
     x = np.arange(W)
     d = np.maximum(x0 - pad - x, x - x1 - pad)
@@ -66,6 +72,8 @@ def trim_side_plate(im):
     return im.crop(im.getchannel("A").point(lambda v: 255 if v > 24 else 0).getbbox())
 
 FIXED = {}
+# photos the photographer cropped on the left: fade that straight edge (fraction of the width)
+SOFT_LEFT = {"salmon-salad-1": .07}
 for p in sorted(src.glob("*.png")):
     if only and p.stem not in only:
         continue
@@ -73,6 +81,10 @@ for p in sorted(src.glob("*.png")):
     bb = im.getchannel("A").point(lambda v: 255 if v > 24 else 0).getbbox()
     im = im.crop(bb)
     im = largest_part(im)
+    if p.stem in SOFT_LEFT:
+        a = np.array(im.getchannel("A")).astype(float)
+        x = np.arange(a.shape[1]); g = np.clip(x / (a.shape[1] * SOFT_LEFT[p.stem]), 0, 1); g = g * g * (3 - 2 * g)
+        im.putalpha(Image.fromarray((a * g[None, :]).astype(np.uint8)))
     if p.stem.endswith("-brioche-1"):
         im = trim_plate(im)
     elif p.stem.endswith("-brioche-2"):
